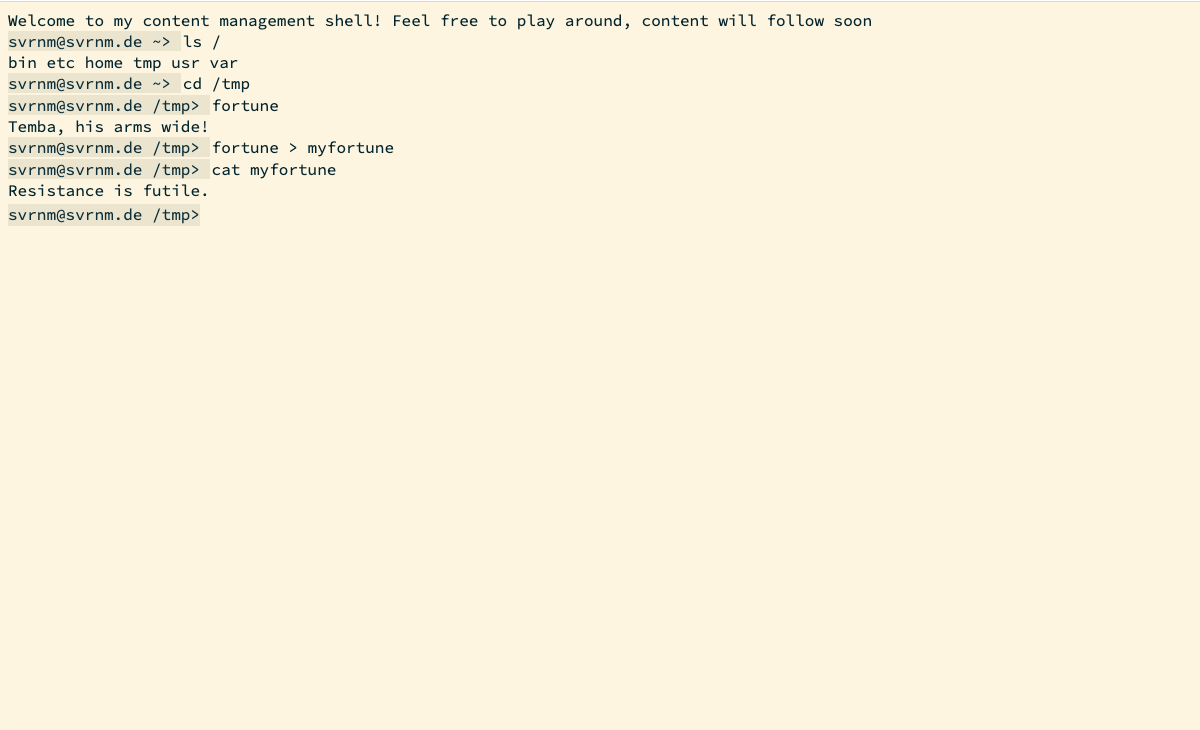
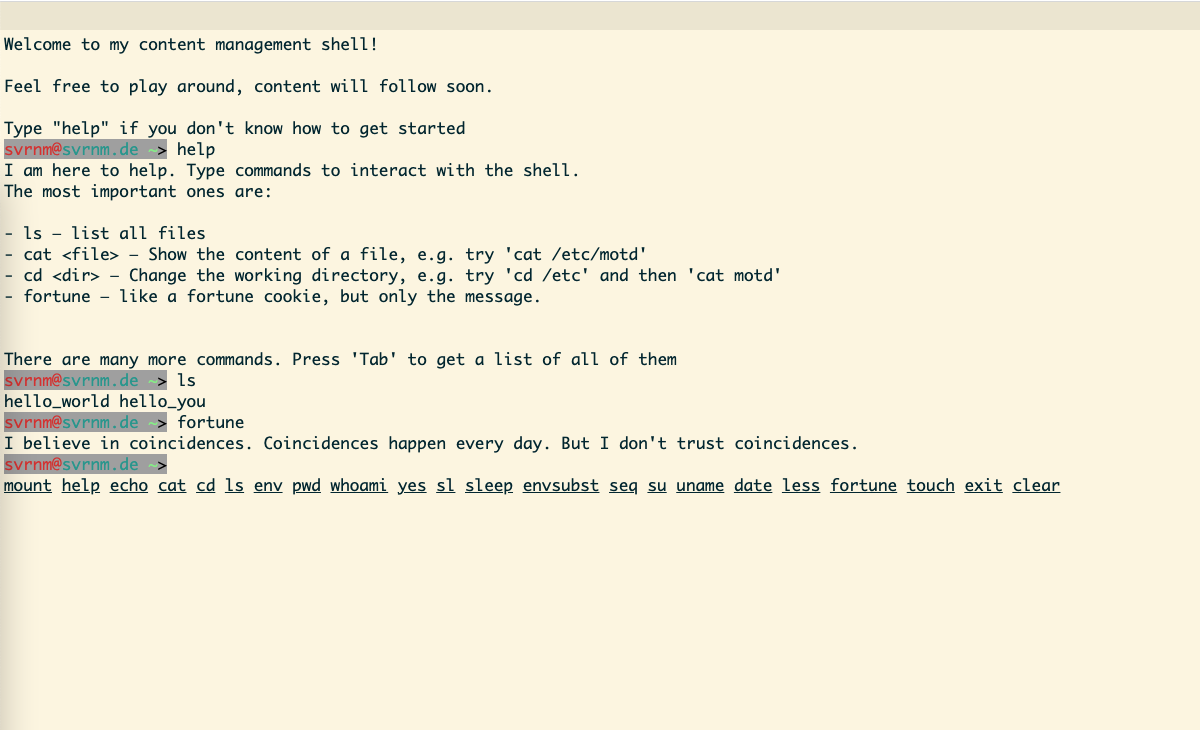
Add README.md, update teaser, update imprint

diff --git a/README.md b/README.md
@@ -1,1 +1,61 @@
-# cm.sh
+# cm.sh - the content management shell
+
+Let's be honest, nobody likes Content Management Systems (CMS), they are bulky, buggy and worst of all they don't have a shell-like experience.
+
+Content Management Shell is hear to change this, it's still buggy, it's probably also going to be bulky, but it has a shell-like experience!
+
+## Preview
+
+Want to see cmsh in action, got to [https://svrnm.de/](svrnm.de) and try it out yourself
+
+![A picture showing how cmsh looks like: it presents the MOTD, a shell prompt, where different commands already have been provided: help, ls, fortune.](./teaser.png)
+
+## Quickstart
+
+You can also run cmsh on your local machine:
+
+```shell
+git clone git@github.com:svrnm/cmsh.git
+cd cmsh
+```
+
+Next, start a local webserver, there are different ways of doing it, e.g. with python:
+
+```shell
+python3 -m http.server
+```
+
+Go to http://localhost:8000 and enjoy your content management shell!
+
+## Configure
+
+If you'd like to run cm.sh as your own, you need to update the domains in `index.html` first:
+
+```html
+<meta property="og:image" content="https://YOURDOMAIN/teaser.png"/>
+<meta property="og:url" content="https://YOURDOMAIN"/>
+<meta property="og:title" content="#!/bin/cmsh – YOURDOMAIN"/>
+<meta property="og:description" content="Welcome to my personal content management shell. Feel free to explore."/>
+```
+
+Next, you can set a environment variables and mount points in [./cmsh/config.js](cmsh/config.js):
+
+```javascript
+export default {
+  environment: {
+    USER: 'USERNAME',
+    HOSTNAME: 'YOURDOMAIN',
+    HOME: '/home/USERNAME',
+    PS1: '\\e[31;100m\\u@\\e[36;100m\\h \\e[92;100m\\w\\e[30;100m>\\e[0m '
+  },
+  fstab: [
+      {
+        deviceSpec: 'base.js',
+        mountPoint: '/',
+        fsType: 'jfs',
+        options: 'ro'
+      },
+      /* ... */
+  ]
+}
+```
